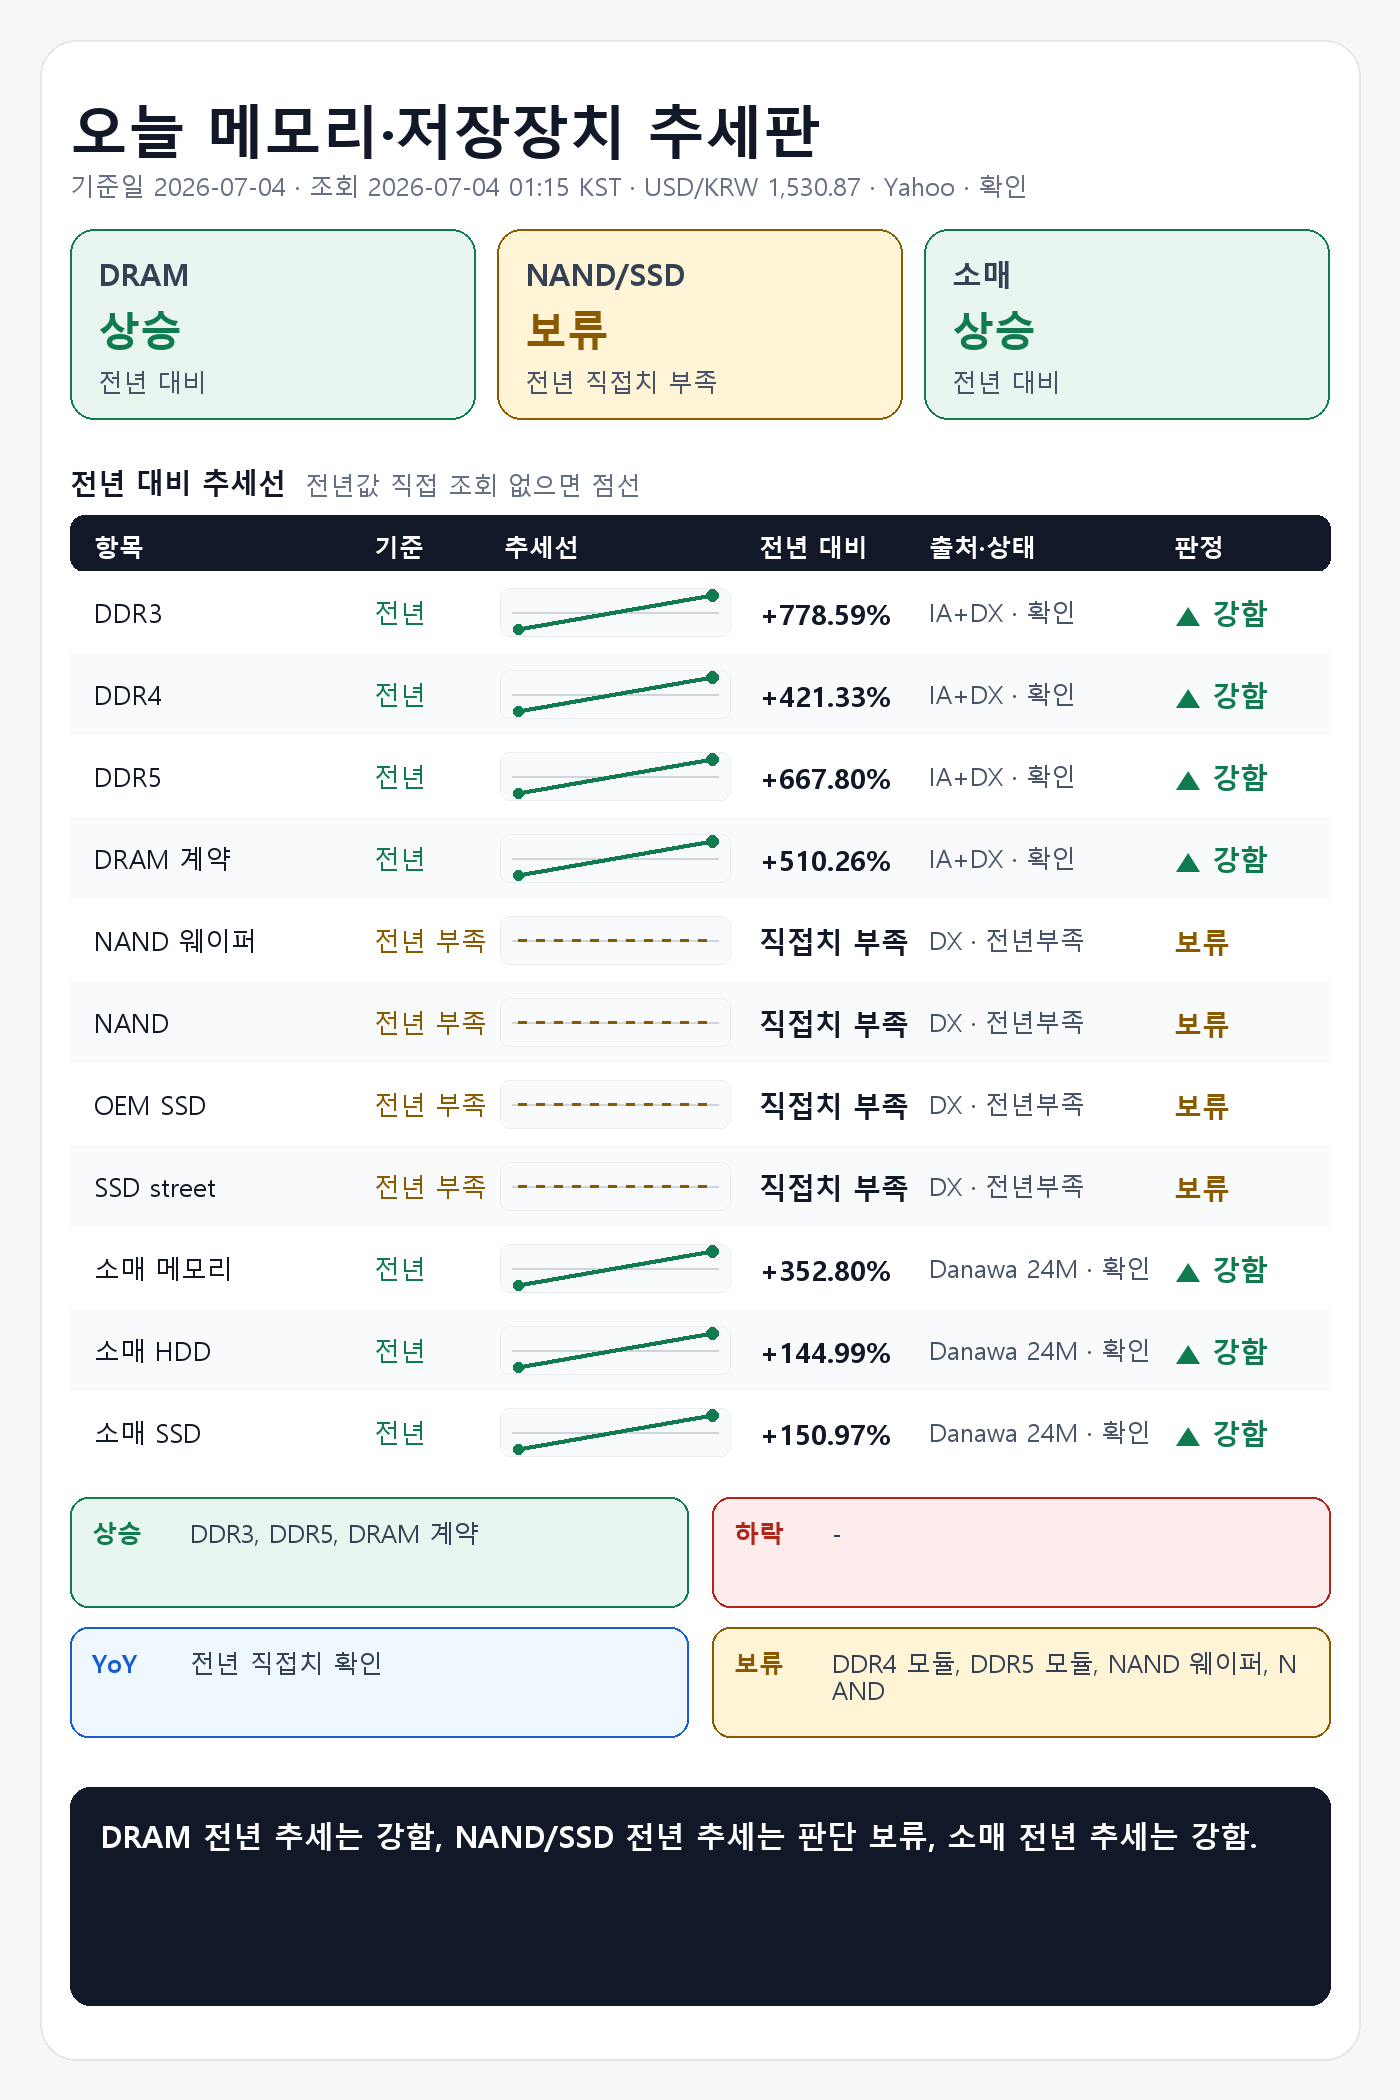
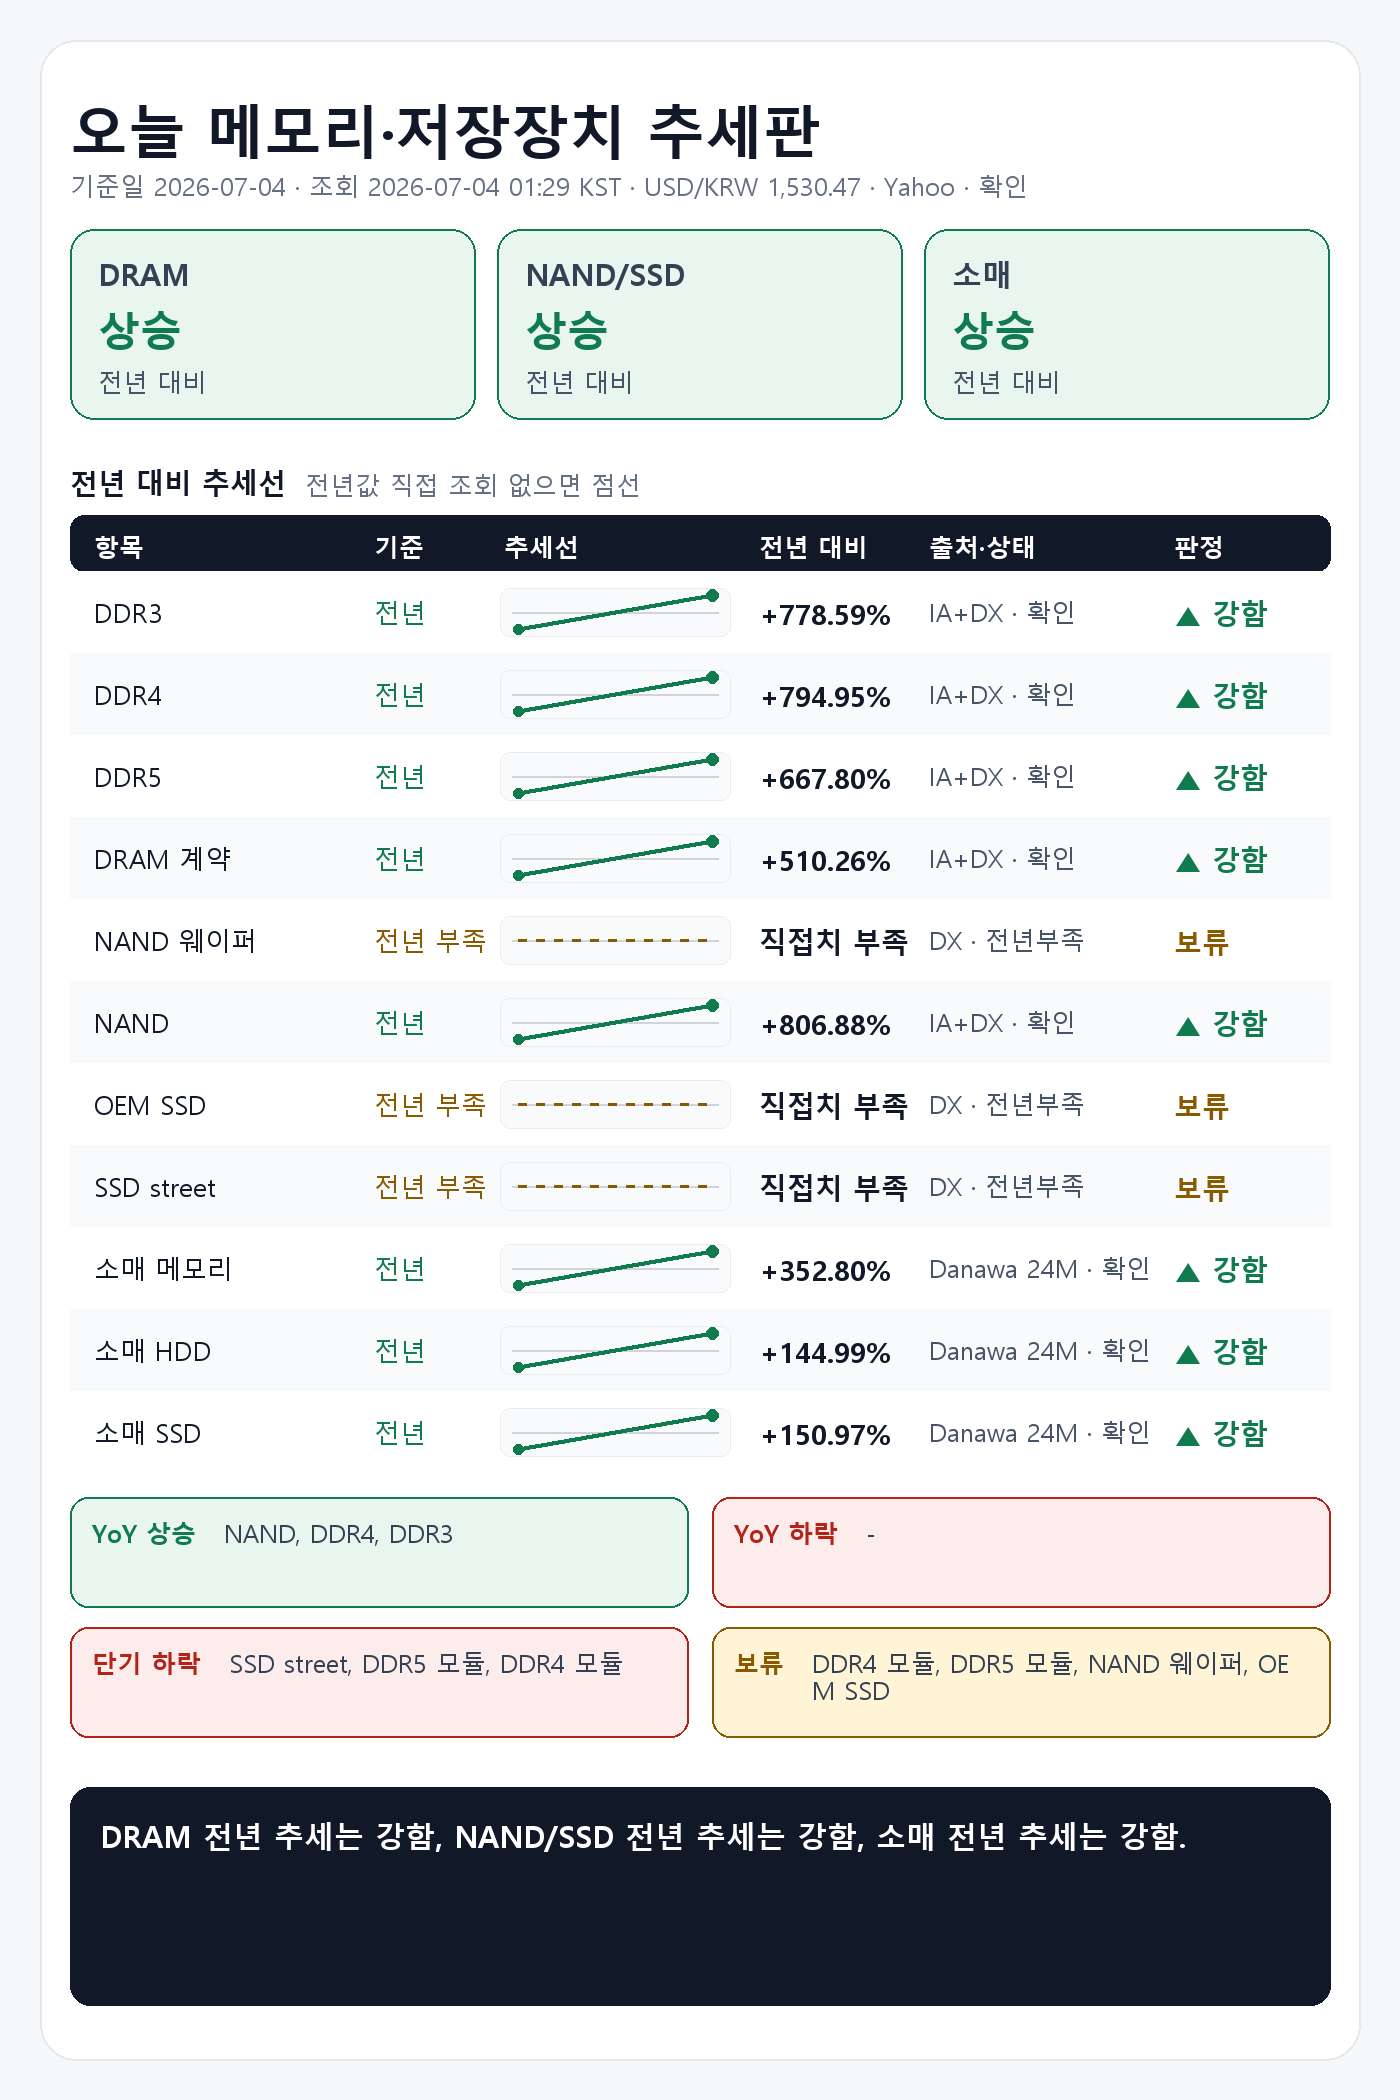
Clarify YoY and short-term trend signals

diff --git a/scripts/generate_memory_price_report.py b/scripts/generate_memory_price_report.py
@@ -2,6 +2,7 @@ from __future__ import annotations
 
 import json
 import re
+import time
 from dataclasses import dataclass
 from datetime import date, datetime, timedelta, timezone
 from pathlib import Path
@@ -28,6 +29,7 @@ DELAYED_OR_CONFLICT = "지연/불일치 있음"
 VERIFIED = "확인"
 STALE_REFERENCE_DAYS = 45
 REQUEST_TIMEOUT_SECONDS = 15
+REQUEST_RETRIES = 2
 
 DRAMEXCHANGE_HOME = "https://www.dramexchange.com/"
 DRAMEXCHANGE_HOME_PRICE = "https://www.dramexchange.com/Home/HomePrice"
@@ -193,9 +195,18 @@ def safe_get(
     params: dict[str, Any] | None = None,
     headers: dict[str, str] | None = None,
 ) -> requests.Response:
-    response = SESSION.get(url, params=params, headers=headers, timeout=REQUEST_TIMEOUT_SECONDS)
-    response.raise_for_status()
-    return response
+    last_error: Exception | None = None
+    for attempt in range(REQUEST_RETRIES + 1):
+        try:
+            response = SESSION.get(url, params=params, headers=headers, timeout=REQUEST_TIMEOUT_SECONDS)
+            response.raise_for_status()
+            return response
+        except requests.RequestException as exc:
+            last_error = exc
+            if attempt < REQUEST_RETRIES:
+                time.sleep(1.5 * (attempt + 1))
+    assert last_error is not None
+    raise last_error
 
 
 def query_usdkrw() -> ExchangeRate:
@@ -468,8 +479,8 @@ def build_records(rate: ExchangeRate) -> list[ReportRecord]:
 
     records = [
         record_from_row("DDR3 칩", "DRAM", find_row(dram_rows, "DDR3"), rate, "전일"),
-        record_from_row("DDR4 칩", "DRAM", find_row(dram_rows, "DDR4", "3200"), rate, "전일"),
-        record_from_row("DDR5 칩", "DRAM", find_row(dram_rows, "DDR5", "4800"), rate, "전일"),
+        record_from_row("DDR4 칩", "DRAM", find_row(dram_rows, "DDR4", "2Gx8", "3200"), rate, "전일"),
+        record_from_row("DDR5 칩", "DRAM", find_row(dram_rows, "DDR5", "2Gx8", "4800"), rate, "전일"),
         record_from_row("DDR4 모듈", "DRAM", find_row(module_rows, "DDR4", "UDIMM", "16GB", "3200"), rate, "전주"),
         record_from_row("DDR5 모듈", "DRAM", find_row(module_rows, "DDR5", "UDIMM", "16GB"), rate, "전주"),
         record_from_home_price(
@@ -592,7 +603,7 @@ def add_prior_from_row(
 ) -> None:
     if row is None:
         return
-    values[label] = PriorYearValue(row.value, "USD", source, source_url, reference)
+    values[label] = PriorYearValue(row.value, "USD", source, source_url, f"{reference}, 항목 {row.item}")
 
 
 def fetch_prior_year_dramexchange_spot(prior_date: date) -> dict[str, PriorYearValue]:
@@ -612,8 +623,8 @@ def fetch_prior_year_dramexchange_spot(prior_date: date) -> dict[str, PriorYearV
         reference = f"캡처 {wayback_kst(capture['timestamp'])}, 원문 Last Update 별도 없음"
         values: dict[str, PriorYearValue] = {}
         add_prior_from_row(values, "DDR3 칩", find_row(dram_rows, "DDR3"), source, archive_url, reference)
-        add_prior_from_row(values, "DDR4 칩", find_row(dram_rows, "DDR4", "3200"), source, archive_url, reference)
-        add_prior_from_row(values, "DDR5 칩", find_row(dram_rows, "DDR5", "4800"), source, archive_url, reference)
+        add_prior_from_row(values, "DDR4 칩", find_row(dram_rows, "DDR4", "2Gx8", "3200"), source, archive_url, reference)
+        add_prior_from_row(values, "DDR5 칩", find_row(dram_rows, "DDR5", "2Gx8", "4800"), source, archive_url, reference)
         add_prior_from_row(values, "DDR4 모듈", find_row(module_rows, "DDR4", "UDIMM", "16GB", "3200"), source, archive_url, reference)
         add_prior_from_row(values, "DDR5 모듈", find_row(module_rows, "DDR5", "UDIMM", "16GB"), source, archive_url, reference)
         add_prior_from_row(values, "NAND 웨이퍼", find_row(flash_rows, "TLC", "512Gb"), source, archive_url, reference)
@@ -1001,6 +1012,11 @@ def build_card_data(records: list[ReportRecord], rate: ExchangeRate, conclusion:
         candidates.sort(key=lambda record: abs(record.yoy_pct or 0), reverse=True)
         return [compact_label(record.label) for record in candidates[:limit]]
 
+    def short_term_falling_items(limit: int) -> list[str]:
+        candidates = [record for record in records if record.change_pct is not None and record.change_pct < 0]
+        candidates.sort(key=lambda record: record.change_pct or 0)
+        return [compact_label(record.label) for record in candidates[:limit]]
+
     summaries = summarize(records)
     priorities = [
         "DDR3 칩",
@@ -1045,9 +1061,9 @@ def build_card_data(records: list[ReportRecord], rate: ExchangeRate, conclusion:
         "boxes": [box("DRAM", "DRAM"), box("NAND/SSD", "NAND/SSD"), box("소매", "소매")],
         "rows": rows,
         "chips": {
-            "상승": card_change_items("강함", 3),
-            "하락": card_change_items("약함", 3),
-            "YoY": ["전년 직접치 확인"] if any(image_verified_yoy(record) for record in records) else ["전년 직접치 부족"],
+            "YoY 상승": card_change_items("강함", 3),
+            "YoY 하락": card_change_items("약함", 3),
+            "단기 하락": short_term_falling_items(4),
             "보류": [compact_label(record.label) for record in records if not image_verified_yoy(record)][:4],
         },
         "conclusion": conclusion,
@@ -1224,18 +1240,18 @@ def create_card_png(card: dict[str, Any], output_path: Path) -> None:
     y += 24
 
     chips = card.get("chips") or {}
-    chip_labels = ["상승", "하락", "YoY", "보류"]
+    chip_labels = ["YoY 상승", "YoY 하락", "단기 하락", "보류"]
     chip_w = (width - margin * 2 - 24) // 2
     chip_h = 110
     for i, label in enumerate(chip_labels):
         x = margin + (i % 2) * (chip_w + 24)
         cy = y + (i // 2) * (chip_h + 20)
         color, bg = status_color(label)
-        if label == "YoY":
-            color, bg = "#175CD3", "#EFF8FF"
         draw.rounded_rectangle((x, cy, x + chip_w, cy + chip_h), radius=18, fill=bg, outline=color, width=2)
         draw.text((x + 22, cy + 18), label, font=chip_font, fill=color)
-        draw_wrapped(draw, (x + 120, cy + 18), list_text(chips.get(label), limit=4), meta_font, "#344054", chip_w - 145, line_gap=2)
+        label_width = draw.textbbox((0, 0), label, font=chip_font)[2]
+        list_x = x + 22 + label_width + 28
+        draw_wrapped(draw, (list_x, cy + 18), list_text(chips.get(label), limit=4), meta_font, "#344054", x + chip_w - list_x - 22, line_gap=2)
     y += chip_h * 2 + 70
 
     conclusion = card.get("conclusion") or "직접 확인 가능한 핵심값 기준으로 판단한다."

diff --git a/reports/memory_price_report_2026-07-04.md b/reports/memory_price_report_2026-07-04.md
@@ -1,19 +1,19 @@
 ## 1. 기준 환율 1줄
-USD/KRW: 1,530.87원 (조회 2026-07-04 01:15 KST, 출처 Yahoo Finance USDKRW=X, 원문 Last Update 2026-07-04 01:14 KST, 상태 확인, 전일 대비 -0.28%).
+USD/KRW: 1,530.47원 (조회 2026-07-04 01:29 KST, 출처 Yahoo Finance USDKRW=X, 원문 Last Update 2026-07-04 01:29 KST, 상태 확인, 전일 대비 -0.31%).
 
 ## 2. 오늘 한눈에 추세판
 | 구분 | 현재값 | 전일 | 전주 | 전월 | 전년 | 추세 | 판정 |
 |---|---:|---|---|---|---|---|---|
-| DDR3 칩 | $12.476 (약 19,099원) | 공개 변화율 +1.09% | 확인 불가 | 확인 불가 | 전년 대비 +778.59% · 전년값 캡처 2025-07-02 04:01 KST, 원문 Last Update 별도 없음 · 출처 Internet Archive DRAMeXchange 공개표 캡처 | 공개 변화율 +1.09% 기준 상승 | 강함 |
-| DDR4 칩 | $76.375 (약 116,920원) | 공개 변화율 +1.16% | 확인 불가 | 확인 불가 | 전년 대비 +421.33% · 전년값 캡처 2025-07-02 04:01 KST, 원문 Last Update 별도 없음 · 출처 Internet Archive DRAMeXchange 공개표 캡처 | 공개 변화율 +1.16% 기준 상승 | 강함 |
-| DDR5 칩 | $46.667 (약 71,441원) | 공개 변화율 +0.07% | 확인 불가 | 확인 불가 | 전년 대비 +667.80% · 전년값 캡처 2025-07-02 04:01 KST, 원문 Last Update 별도 없음 · 출처 Internet Archive DRAMeXchange 공개표 캡처 | 공개 변화율 +0.07% 기준 보합 | 보합 |
-| DDR4 모듈 | $149.576 (약 228,981원) | 확인 불가 | 공개 변화율 -0.23% | 확인 불가 | 전년 직접치 부족 | 공개 변화율 -0.23% 기준 보합 | 보합 |
-| DDR5 모듈 | $208.500 (약 319,186원) | 확인 불가 | 공개 변화율 -0.24% | 확인 불가 | 전년 직접치 부족 | 공개 변화율 -0.24% 기준 보합 | 보합 |
-| DRAM 계약가 (DDR4 8GB SO-DIMM) | $119.000 (약 182,174원) | 확인 불가 | 확인 불가 | 공개 변화율 +0.00%, 기준값 확인 불가 | 전년 대비 +510.26% · 전년값 원문 2025-05-29 16:00:00, 캡처 2025-06-29 13:11 KST · 출처 Internet Archive DRAMeXchange HomePrice NationalDramContract 캡처 | 공개 변화율 +0.00% 기준 보합 | 보합 |
+| DDR3 칩 | $12.476 (약 19,094원) | 공개 변화율 +1.09% | 확인 불가 | 확인 불가 | 전년 대비 +778.59% · 전년값 캡처 2025-07-02 04:01 KST, 원문 Last Update 별도 없음, 항목 DDR3 4Gb 512Mx8 1600/1866 · 출처 Internet Archive DRAMeXchange 공개표 캡처 | 공개 변화율 +1.09% 기준 상승 | 강함 |
+| DDR4 칩 | $76.375 (약 116,890원) | 공개 변화율 +1.16% | 확인 불가 | 확인 불가 | 전년 대비 +794.95% · 전년값 캡처 2025-07-02 04:01 KST, 원문 Last Update 별도 없음, 항목 DDR4 16Gb (2Gx8)3200 · 출처 Internet Archive DRAMeXchange 공개표 캡처 | 공개 변화율 +1.16% 기준 상승 | 강함 |
+| DDR5 칩 | $46.667 (약 71,422원) | 공개 변화율 +0.07% | 확인 불가 | 확인 불가 | 전년 대비 +667.80% · 전년값 캡처 2025-07-02 04:01 KST, 원문 Last Update 별도 없음, 항목 DDR5 16G (2Gx8) 4800/5600 · 출처 Internet Archive DRAMeXchange 공개표 캡처 | 공개 변화율 +0.07% 기준 보합 | 보합 |
+| DDR4 모듈 | $149.576 (약 228,922원) | 확인 불가 | 공개 변화율 -0.23% | 확인 불가 | 전년 직접치 부족 | 공개 변화율 -0.23% 기준 보합 | 보합 |
+| DDR5 모듈 | $208.500 (약 319,103원) | 확인 불가 | 공개 변화율 -0.24% | 확인 불가 | 전년 직접치 부족 | 공개 변화율 -0.24% 기준 보합 | 보합 |
+| DRAM 계약가 (DDR4 8GB SO-DIMM) | $119.000 (약 182,126원) | 확인 불가 | 확인 불가 | 공개 변화율 +0.00%, 기준값 확인 불가 | 전년 대비 +510.26% · 전년값 원문 2025-05-29 16:00:00, 캡처 2025-07-07 16:02 KST · 출처 Internet Archive DRAMeXchange HomePrice NationalDramContract 캡처 | 공개 변화율 +0.00% 기준 보합 | 보합 |
 | NAND 웨이퍼 | 확인 불가 | 확인 불가 | 확인 불가 | 확인 불가 | 현재 직접치 부족 | 확인 불가 | 판단 보류 |
-| NAND 계약가 (NAND 128Gb 16Gx8 Speedns) | $26.508 (약 40,580원) | 확인 불가 | 확인 불가 | 공개 변화율 +9.73%, 기준값 확인 불가 | 전년 직접치 부족 | 공개 변화율 +9.73% 기준 상승 | 강함 |
+| NAND 계약가 (NAND 128Gb 16Gx8 Speedns) | $26.508 (약 40,570원) | 확인 불가 | 확인 불가 | 공개 변화율 +9.73%, 기준값 확인 불가 | 전년 대비 +806.88% · 전년값 원문 2025-05-29 09:00:00, 캡처 2025-07-07 16:02 KST · 출처 Internet Archive DRAMeXchange HomePrice NationalFlashContract 캡처 | 공개 변화율 +9.73% 기준 상승 | 강함 |
 | PC-client OEM SSD 계약가 (1TB-mSATA/M.2 TLC PCIe-Value Grade) | 지연/불일치 있음 | 확인 불가 | 확인 불가 | 지연/불일치 있음 | 현재 직접치 부족 | 지연/불일치 있음 | 판단 보류 |
-| SSD street price (990 Pro) | $219.990 (약 336,776원) | 확인 불가 | 확인 불가 | 공개 변화율 -12.00%, 기준값 확인 불가 | 전년 직접치 부족 | 공개 변화율 -12.00% 기준 하락 | 약함 |
+| SSD street price (990 Pro) | $219.990 (약 336,688원) | 확인 불가 | 확인 불가 | 공개 변화율 -12.00%, 기준값 확인 불가 | 전년 직접치 부족 | 공개 변화율 -12.00% 기준 하락 | 약함 |
 | 소매 메모리 (삼성전자 DDR5-5600 32GB) | 650,000원 | 확인 불가 | 확인 불가 | 확인 불가 | 전년 대비 +352.80% · 전년값 25-07 월간 가격추이 · 출처 Danawa 가격추이 24개월 · 삼성전자 DDR5-5600 32GB | 비교 기준값 확인 불가 | 판단 보류 |
 | 소매 HDD (Seagate BarraCuda 8TB) | 469,000원 | 확인 불가 | 확인 불가 | 확인 불가 | 전년 대비 +144.99% · 전년값 25-07 월간 가격추이 · 출처 Danawa 가격추이 24개월 · Seagate BarraCuda 8TB | 비교 기준값 확인 불가 | 판단 보류 |
 | 소매 SSD (Samsung 990 PRO 1TB) | 399,990원 | 확인 불가 | 확인 불가 | 확인 불가 | 전년 대비 +150.97% · 전년값 25-07 월간 가격추이 · 출처 Danawa 가격추이 24개월 · Samsung 990 PRO 1TB | 비교 기준값 확인 불가 | 판단 보류 |
@@ -21,28 +21,28 @@ USD/KRW: 1,530.87원 (조회 2026-07-04 01:15 KST, 출처 Yahoo Finance USDKRW=X
 ## 3. 상승·하락 요약 4줄
 상승: DDR3 칩 +1.09%, DDR4 칩 +1.16%, NAND 계약가 +9.73%
 하락: SSD street price -12.00%
-전년: DDR3 칩 +778.59%, DDR4 칩 +421.33%, DDR5 칩 +667.80%, DRAM 계약가 +510.26%, 소매 메모리 +352.80%, 소매 HDD +144.99%
+전년: DDR3 칩 +778.59%, DDR4 칩 +794.95%, DDR5 칩 +667.80%, DRAM 계약가 +510.26%, NAND 계약가 +806.88%, 소매 메모리 +352.80%
 보류: NAND 웨이퍼, PC-client OEM SSD 계약가
 
 ## 4. 가격표
 | 항목 | 현재값 | 조회 시각·출처·상태 | 원문 Last Update | 전월 대비 | 전년 대비 | 추세 |
 |---|---:|---|---|---|---|---|
-| DDR3 칩 | $12.476 (약 19,099원) | 2026-07-04 01:15 KST · DRAMeXchange 공개표 (https://www.dramexchange.com/Price/Dram_Spot) · 상태 확인 | 홈 공개표, 원문 Last Update 별도 없음 | 확인 불가 | 전년 대비 +778.59% · 전년값 캡처 2025-07-02 04:01 KST, 원문 Last Update 별도 없음 · 출처 Internet Archive DRAMeXchange 공개표 캡처 | 공개 변화율 +1.09% 기준 상승 |
-| DDR4 칩 | $76.375 (약 116,920원) | 2026-07-04 01:15 KST · DRAMeXchange 공개표 (https://www.dramexchange.com/Price/Dram_Spot) · 상태 확인 | 홈 공개표, 원문 Last Update 별도 없음 | 확인 불가 | 전년 대비 +421.33% · 전년값 캡처 2025-07-02 04:01 KST, 원문 Last Update 별도 없음 · 출처 Internet Archive DRAMeXchange 공개표 캡처 | 공개 변화율 +1.16% 기준 상승 |
-| DDR5 칩 | $46.667 (약 71,441원) | 2026-07-04 01:15 KST · DRAMeXchange 공개표 (https://www.dramexchange.com/Price/Dram_Spot) · 상태 확인 | 홈 공개표, 원문 Last Update 별도 없음 | 확인 불가 | 전년 대비 +667.80% · 전년값 캡처 2025-07-02 04:01 KST, 원문 Last Update 별도 없음 · 출처 Internet Archive DRAMeXchange 공개표 캡처 | 공개 변화율 +0.07% 기준 보합 |
-| DDR4 모듈 | $149.576 (약 228,981원) | 2026-07-04 01:15 KST · DRAMeXchange 공개표 (https://www.dramexchange.com/Price/Module_Spot) · 상태 확인 | 홈 공개표, 원문 Last Update 별도 없음 | 확인 불가 | 전년 직접치 부족 | 공개 변화율 -0.23% 기준 보합 |
-| DDR5 모듈 | $208.500 (약 319,186원) | 2026-07-04 01:15 KST · DRAMeXchange 공개표 (https://www.dramexchange.com/Price/Module_Spot) · 상태 확인 | 홈 공개표, 원문 Last Update 별도 없음 | 확인 불가 | 전년 직접치 부족 | 공개 변화율 -0.24% 기준 보합 |
-| DRAM 계약가 (DDR4 8GB SO-DIMM) | $119.000 (약 182,174원) | 2026-07-04 01:15 KST · DRAMeXchange HomePrice NationalDramContract (https://www.dramexchange.com/Price/NationalContractDramDetail) · 상태 확인 | 2026-05-29 15:00:00 | 공개 변화율 +0.00%, 기준값 확인 불가 | 전년 대비 +510.26% · 전년값 원문 2025-05-29 16:00:00, 캡처 2025-06-29 13:11 KST · 출처 Internet Archive DRAMeXchange HomePrice NationalDramContract 캡처 | 공개 변화율 +0.00% 기준 보합 |
-| NAND 웨이퍼 | 확인 불가 | 2026-07-04 01:15 KST · DRAMeXchange 공개표 (https://www.dramexchange.com/) · 상태 확인 불가 | 확인 불가 | 확인 불가 | 현재 직접치 부족 | 확인 불가 |
-| NAND 계약가 (NAND 128Gb 16Gx8 Speedns) | $26.508 (약 40,580원) | 2026-07-04 01:15 KST · DRAMeXchange HomePrice NationalFlashContract (https://www.dramexchange.com/Price/NationalContractFlashDetail) · 상태 확인 | 2026-05-29 10:00:00 | 공개 변화율 +9.73%, 기준값 확인 불가 | 전년 직접치 부족 | 공개 변화율 +9.73% 기준 상승 |
-| PC-client OEM SSD 계약가 (1TB-mSATA/M.2 TLC PCIe-Value Grade) | 지연/불일치 있음 | 2026-07-04 01:15 KST · DRAMeXchange HomePrice PCC (https://www.dramexchange.com/Price/PCClientOEMSSD) · 상태 지연/불일치 있음 | 2026-04-27 10:00:00 | 지연/불일치 있음 | 현재 직접치 부족 | 지연/불일치 있음 |
-| SSD street price (990 Pro) | $219.990 (약 336,776원) | 2026-07-04 01:15 KST · DRAMeXchange HomePrice SSD (https://www.dramexchange.com/Price/SSD_Street) · 상태 확인 | 2026-06-26 13:00:00 | 공개 변화율 -12.00%, 기준값 확인 불가 | 전년 직접치 부족 | 공개 변화율 -12.00% 기준 하락 |
-| 소매 메모리 (삼성전자 DDR5-5600 32GB) | 650,000원 | 2026-07-04 01:15 KST · Danawa prod 가격비교 · 삼성전자 DDR5-5600 32GB (https://prod.danawa.com/info/?pcode=20644043) · 상태 확인 | 상품 페이지 직접 조회, 원문 Last Update 별도 없음 | 확인 불가 | 전년 대비 +352.80% · 전년값 25-07 월간 가격추이 · 출처 Danawa 가격추이 24개월 · 삼성전자 DDR5-5600 32GB | 비교 기준값 확인 불가 |
-| 소매 HDD (Seagate BarraCuda 8TB) | 469,000원 | 2026-07-04 01:15 KST · Danawa prod 가격비교 · Seagate BarraCuda 8TB (https://prod.danawa.com/info/?pcode=5764992) · 상태 확인 | 상품 페이지 직접 조회, 원문 Last Update 별도 없음 | 확인 불가 | 전년 대비 +144.99% · 전년값 25-07 월간 가격추이 · 출처 Danawa 가격추이 24개월 · Seagate BarraCuda 8TB | 비교 기준값 확인 불가 |
-| 소매 SSD (Samsung 990 PRO 1TB) | 399,990원 | 2026-07-04 01:15 KST · Danawa prod 가격비교 · Samsung 990 PRO 1TB (https://prod.danawa.com/info/?pcode=18297002) · 상태 확인 | 상품 페이지 직접 조회, 원문 Last Update 별도 없음 | 확인 불가 | 전년 대비 +150.97% · 전년값 25-07 월간 가격추이 · 출처 Danawa 가격추이 24개월 · Samsung 990 PRO 1TB | 비교 기준값 확인 불가 |
+| DDR3 칩 | $12.476 (약 19,094원) | 2026-07-04 01:29 KST · DRAMeXchange 공개표 (https://www.dramexchange.com/Price/Dram_Spot) · 상태 확인 | 홈 공개표, 원문 Last Update 별도 없음 | 확인 불가 | 전년 대비 +778.59% · 전년값 캡처 2025-07-02 04:01 KST, 원문 Last Update 별도 없음, 항목 DDR3 4Gb 512Mx8 1600/1866 · 출처 Internet Archive DRAMeXchange 공개표 캡처 | 공개 변화율 +1.09% 기준 상승 |
+| DDR4 칩 | $76.375 (약 116,890원) | 2026-07-04 01:29 KST · DRAMeXchange 공개표 (https://www.dramexchange.com/Price/Dram_Spot) · 상태 확인 | 홈 공개표, 원문 Last Update 별도 없음 | 확인 불가 | 전년 대비 +794.95% · 전년값 캡처 2025-07-02 04:01 KST, 원문 Last Update 별도 없음, 항목 DDR4 16Gb (2Gx8)3200 · 출처 Internet Archive DRAMeXchange 공개표 캡처 | 공개 변화율 +1.16% 기준 상승 |
+| DDR5 칩 | $46.667 (약 71,422원) | 2026-07-04 01:29 KST · DRAMeXchange 공개표 (https://www.dramexchange.com/Price/Dram_Spot) · 상태 확인 | 홈 공개표, 원문 Last Update 별도 없음 | 확인 불가 | 전년 대비 +667.80% · 전년값 캡처 2025-07-02 04:01 KST, 원문 Last Update 별도 없음, 항목 DDR5 16G (2Gx8) 4800/5600 · 출처 Internet Archive DRAMeXchange 공개표 캡처 | 공개 변화율 +0.07% 기준 보합 |
+| DDR4 모듈 | $149.576 (약 228,922원) | 2026-07-04 01:29 KST · DRAMeXchange 공개표 (https://www.dramexchange.com/Price/Module_Spot) · 상태 확인 | 홈 공개표, 원문 Last Update 별도 없음 | 확인 불가 | 전년 직접치 부족 | 공개 변화율 -0.23% 기준 보합 |
+| DDR5 모듈 | $208.500 (약 319,103원) | 2026-07-04 01:29 KST · DRAMeXchange 공개표 (https://www.dramexchange.com/Price/Module_Spot) · 상태 확인 | 홈 공개표, 원문 Last Update 별도 없음 | 확인 불가 | 전년 직접치 부족 | 공개 변화율 -0.24% 기준 보합 |
+| DRAM 계약가 (DDR4 8GB SO-DIMM) | $119.000 (약 182,126원) | 2026-07-04 01:29 KST · DRAMeXchange HomePrice NationalDramContract (https://www.dramexchange.com/Price/NationalContractDramDetail) · 상태 확인 | 2026-05-29 15:00:00 | 공개 변화율 +0.00%, 기준값 확인 불가 | 전년 대비 +510.26% · 전년값 원문 2025-05-29 16:00:00, 캡처 2025-07-07 16:02 KST · 출처 Internet Archive DRAMeXchange HomePrice NationalDramContract 캡처 | 공개 변화율 +0.00% 기준 보합 |
+| NAND 웨이퍼 | 확인 불가 | 2026-07-04 01:29 KST · DRAMeXchange 공개표 (https://www.dramexchange.com/) · 상태 확인 불가 | 확인 불가 | 확인 불가 | 현재 직접치 부족 | 확인 불가 |
+| NAND 계약가 (NAND 128Gb 16Gx8 Speedns) | $26.508 (약 40,570원) | 2026-07-04 01:29 KST · DRAMeXchange HomePrice NationalFlashContract (https://www.dramexchange.com/Price/NationalContractFlashDetail) · 상태 확인 | 2026-05-29 10:00:00 | 공개 변화율 +9.73%, 기준값 확인 불가 | 전년 대비 +806.88% · 전년값 원문 2025-05-29 09:00:00, 캡처 2025-07-07 16:02 KST · 출처 Internet Archive DRAMeXchange HomePrice NationalFlashContract 캡처 | 공개 변화율 +9.73% 기준 상승 |
+| PC-client OEM SSD 계약가 (1TB-mSATA/M.2 TLC PCIe-Value Grade) | 지연/불일치 있음 | 2026-07-04 01:29 KST · DRAMeXchange HomePrice PCC (https://www.dramexchange.com/Price/PCClientOEMSSD) · 상태 지연/불일치 있음 | 2026-04-27 10:00:00 | 지연/불일치 있음 | 현재 직접치 부족 | 지연/불일치 있음 |
+| SSD street price (990 Pro) | $219.990 (약 336,688원) | 2026-07-04 01:29 KST · DRAMeXchange HomePrice SSD (https://www.dramexchange.com/Price/SSD_Street) · 상태 확인 | 2026-06-26 13:00:00 | 공개 변화율 -12.00%, 기준값 확인 불가 | 전년 직접치 부족 | 공개 변화율 -12.00% 기준 하락 |
+| 소매 메모리 (삼성전자 DDR5-5600 32GB) | 650,000원 | 2026-07-04 01:29 KST · Danawa prod 가격비교 · 삼성전자 DDR5-5600 32GB (https://prod.danawa.com/info/?pcode=20644043) · 상태 확인 | 상품 페이지 직접 조회, 원문 Last Update 별도 없음 | 확인 불가 | 전년 대비 +352.80% · 전년값 25-07 월간 가격추이 · 출처 Danawa 가격추이 24개월 · 삼성전자 DDR5-5600 32GB | 비교 기준값 확인 불가 |
+| 소매 HDD (Seagate BarraCuda 8TB) | 469,000원 | 2026-07-04 01:29 KST · Danawa prod 가격비교 · Seagate BarraCuda 8TB (https://prod.danawa.com/info/?pcode=5764992) · 상태 확인 | 상품 페이지 직접 조회, 원문 Last Update 별도 없음 | 확인 불가 | 전년 대비 +144.99% · 전년값 25-07 월간 가격추이 · 출처 Danawa 가격추이 24개월 · Seagate BarraCuda 8TB | 비교 기준값 확인 불가 |
+| 소매 SSD (Samsung 990 PRO 1TB) | 399,990원 | 2026-07-04 01:29 KST · Danawa prod 가격비교 · Samsung 990 PRO 1TB (https://prod.danawa.com/info/?pcode=18297002) · 상태 확인 | 상품 페이지 직접 조회, 원문 Last Update 별도 없음 | 확인 불가 | 전년 대비 +150.97% · 전년값 25-07 월간 가격추이 · 출처 Danawa 가격추이 24개월 · Samsung 990 PRO 1TB | 비교 기준값 확인 불가 |
 
 ## 5. 마지막 한 줄
-전년 기준으로 가장 강한 쪽은 DDR3 칩, 가장 약한 쪽은 소매 HDD, DRAM 전년 추세는 강함, NAND/SSD 전년 추세는 판단 보류.
+전년 기준으로 가장 강한 쪽은 NAND 계약가, 가장 약한 쪽은 소매 HDD, DRAM 전년 추세는 강함, NAND/SSD 전년 추세는 강함.
 
 ## 6. 마지막 이미지형 요약판
 ![오늘 메모리·저장장치 추세판](memory_price_summary_2026-07-04.png)